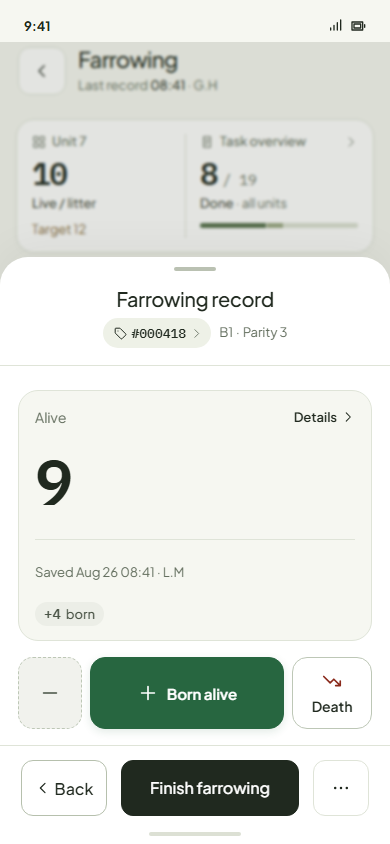
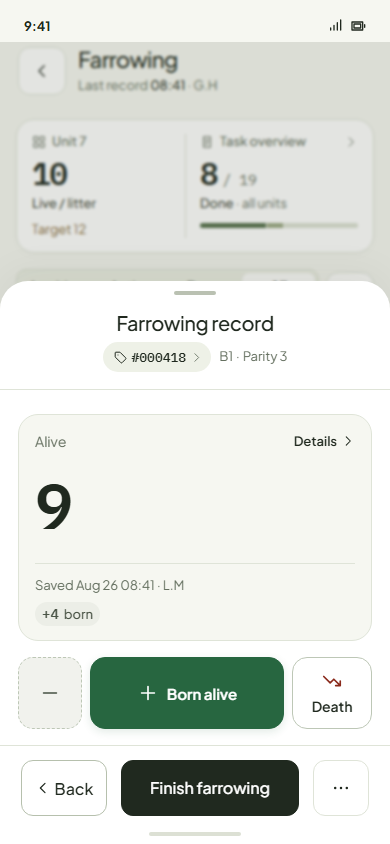
Farrowing redo: Undo as a small key centred on the run (return glyph over the word)

diff --git a/features/farrowing/edit-record-round/undo.html b/features/farrowing/edit-record-round/undo.html
@@ -23,12 +23,12 @@ ul,ol{margin:0;padding-left:20px;color:var(--ink2)} li{margin:5px 0} li small{di
 <body><main>
 <p class="eyebrow">Farrowing · no Edit record · the redo for a fat finger</p>
 <h1>Undo the last save</h1>
-<p class="lead">Under a divider, the Alive card shows the <b>last save</b> as a run: the header is when and who (“Saved 09:41 · G.H”), with all of that run's results on one line below (+3 born, −1 died, 1 born dead). For the worker who saved it, an <b>Undo</b> button sits on the header row. Undo asks “Undo the 09:41 save?”, Back · Undo. The visit comes back unsaved, exactly as it was. You fix it with the same keys and press Save.</p>
+<p class="lead">Under a divider, the Alive card shows the <b>last save</b> as a run: the header is when and who (“Saved 09:41 · G.H”), with all of that run's results on one line below (+3 born, −1 died, 1 born dead). For the worker who saved it, a small <b>Undo</b> key sits on the right, centred: the return icon over the word. Undo asks “Undo the 09:41 save?”, Back · Undo. The visit comes back unsaved, exactly as it was. You fix it with the same keys and press Save.</p>
 
 <div class="shots">
 <figure><img src="undo-e0-not-mine.png" alt="Card with someone else's last save, no Undo"><figcaption><b>0. Someone else's.</b> “Saved Aug 26 08:41 · L.M” over +4 born: no Undo.</figcaption></figure>
 <figure><img src="undo-1-fat-finger.png" alt="Three born alive taps, not saved yet"><figcaption><b>1. The fat finger.</b> Three taps for two piglets. The run hides while unsaved. Save.</figcaption></figure>
-<figure><img src="undo-e1-saved.png" alt="Saved, the run with Undo in the card"><figcaption><b>2. Saved.</b> Alive 11. Under the divider: “Saved 09:41 · G.H” with <b>Undo</b>, then +3 born · −1 died · 1 born dead on one line.</figcaption></figure>
+<figure><img src="undo-e1-saved.png" alt="Saved, the run with Undo in the card"><figcaption><b>2. Saved.</b> Alive 11. Under the divider: “Saved 09:41 · G.H”, +3 born · −1 died · 1 born dead on one line, and the <b>Undo</b> key centred on the right.</figcaption></figure>
 <figure><img src="undo-e2-ask.png" alt="Undo the 09:41 save? Back, Undo"><figcaption><b>3. Undo the 09:41 save?</b> Back · Undo.</figcaption></figure>
 <figure><img src="undo-3-reopened.png" alt="The visit reopened as not saved yet"><figcaption><b>4. Undone.</b> “Not saved yet”, +3 born. The record reads 9 until you save again.</figcaption></figure>
 <figure><img src="undo-4-fixed.png" alt="Fixed to plus two"><figcaption><b>5. Fixed.</b> − once: 11, +2 born. Save. The log keeps one Corrected line: “+2 born alive · Was +3 born alive”.</figcaption></figure>

diff --git a/features/farrowing/edit-record-round.md b/features/farrowing/edit-record-round.md
@@ -8,7 +8,7 @@ The owner's words (2026-11-02): *"edit record right now is way too confusing …
 
 *"lets just agree that there is no more edit record for farrowing what you fill is in what you fill in. but we need a way something simpler if users fat finger a death or a born. and need to redo it after pressing save."* Count is a global feature, and its spec is a round of its own (`features/count/`, branch `claude/frosty-chatelet-85b362`). The rest of this file is the round as it was put to the owner. Where it differs from this ruling, the ruling stands.
 
-**The redo: the last save in the Alive card, with Undo.** Under the figure, behind a divider, the card shows the sow's last save as a run. The header is when and who (`Saved 09:41 · G.H`). Under it are all of that run's results on **one line**, as the visit's chips (`+3 born`, `−1 died`, `1 born dead`). They are quiet and without glyphs because they are saved and the word says it; at most three kinds always fit, even `+12 born · −11 died · 10 born dead` at 360. For the worker who saved it, an **Undo** button (the `return` glyph, secondary) sits on the header row, beside the stamp. Undo asks only **Undo the 09:41 save?** with Back · Undo. Then the visit comes back to the drawer as unsaved, exactly as it was: the born chip, the deaths with their causes, the photos. The record drops back to what it was before it. The worker fixes it with the keys they already use (− takes a born back; Death changes a death) and presses Save. The log keeps one line for the visit, marked **Corrected**, with what it was.
+**The redo: the last save in the Alive card, with Undo.** Under the figure, behind a divider, the card shows the sow's last save as a run. The header is when and who (`Saved 09:41 · G.H`). Under it are all of that run's results on **one line**, as the visit's chips (`+3 born`, `−1 died`, `1 born dead`). They are quiet and without glyphs because they are saved and the word says it; at most three kinds fit beside the key at 390, even `+12 born · −11 died · 10 born dead`, and only on a narrower phone may they wrap. For the worker who saved it, a small **Undo** key sits on the right, centred on the run: the `return` glyph over a 13px word (56 × 56, the secondary face, like the Death key). Undo asks only **Undo the 09:41 save?** with Back · Undo. Then the visit comes back to the drawer as unsaved, exactly as it was: the born chip, the deaths with their causes, the photos. The record drops back to what it was before it. The worker fixes it with the keys they already use (− takes a born back; Death changes a death) and presses Save. The log keeps one line for the visit, marked **Corrected**, with what it was.
 
 The card stays one surface with two sibling targets. The figure area opens Details as before; Undo is its own button beside the line, never nested inside the door. The card's quiet `Saved 08:20` goes, because the line says it. While a visit is unsaved the line hides: the chips are the visit then, and Clear empties it.
 
@@ -22,7 +22,7 @@ Drawn first and dropped:
 | | | |
 |---|---|---|
 | ![Not mine](edit-record-round/undo-e0-not-mine.png) | ![Fat finger](edit-record-round/undo-1-fat-finger.png) | ![Saved, Undo](edit-record-round/undo-e1-saved.png) |
-| **0. Someone else's last save.** `Saved Aug 26 08:41 · L.M` over `+4 born`: no Undo. | **1. The fat finger.** Three taps for two piglets, plus a death and a stillborn in the same visit. The run hides while unsaved. Save. | **2. Saved.** Alive 11; under the divider `Saved 09:41 · G.H` with **Undo**, then `+3 born` `−1 died` `1 born dead` on one line. |
+| **0. Someone else's last save.** `Saved Aug 26 08:41 · L.M` over `+4 born`: no Undo. | **1. The fat finger.** Three taps for two piglets, plus a death and a stillborn in the same visit. The run hides while unsaved. Save. | **2. Saved.** Alive 11; under the divider `Saved 09:41 · G.H`, then `+3 born` `−1 died` `1 born dead` on one line, with the **Undo** key centred on the right. |
 | ![Ask](edit-record-round/undo-e2-ask.png) | ![Undone](edit-record-round/undo-3-reopened.png) | ![Fixed](edit-record-round/undo-4-fixed.png) |
 | **3. Undo the 09:41 save?** Back · Undo. Nothing else. | **4. Undone.** `Alive · Not saved yet`, 12 with `+3 born`. The record reads 9 until Save. | **5. Fixed.** − once: 11 with `+2 born`. Save. |
 | ![Log](edit-record-round/undo-5-log.png) | ![Litter details](edit-record-round/undo-6-litter.png) | |
